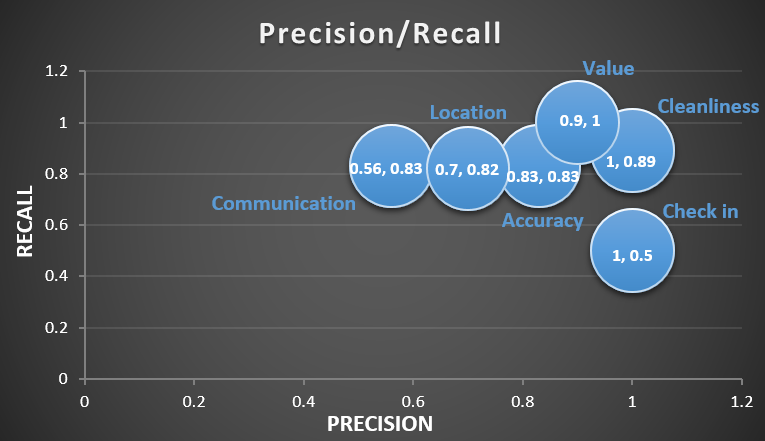
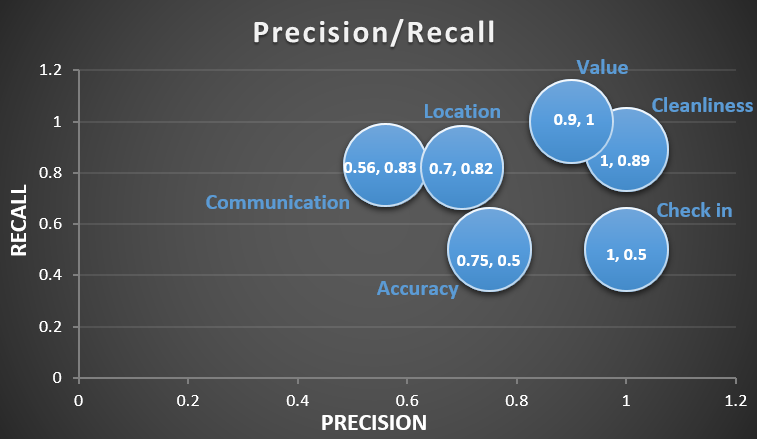
Update on Overleaf.

diff --git a/chapters/introduction/chap01.tex b/chapters/introduction/chap01.tex
@@ -6,37 +6,34 @@
 \let\textcircled=\pgftextcircled
 \chapter{Introduction}
 \label{chap:intro}
+%
+% General description of ICTs growth, etourism term and feedback systems
+%
+\initial{T}he exponential growth of Information and Communication Technologies (ICTs) has played a great role in the development of tourism industry. Electronic tourism (e-tourism) is the application of ICTs for tourism purposes, including the digitalization of all its processes and value chains \cite{buhalis2003etourism}. Increasingly, ICTs provide users with access to many sources of information and has eventually affected the consumer behavior in tourism industry \cite{mills2004handbook}. Nowadays there is a huge variety of web services which provide a great complexity and diversity of recommended offers for meeting the demands of travelers. However, the personalized consumption patterns and individualistic lifestyles make it incredibly difficult for the service providers to anticipate tourists' behavior \cite{niemann2008enhancing}. For decision makers to successfully understand the requirements, needs, desires and preferences of the customer, detailed information has to be obtained. Travelers, making use of the ICT tools that facilitate the information retrieval and decision making processes, have now direct access to all types of information provided by tourism agencies, companies, marketers, enterprises or other users. Furthermore, ICTs and Internet have transformed e-tourism markets from customer-centric to customer-driven \cite{buhalis2011tourism}, meaning that users play a major role in creating and sharing traveling information through blogs and review websites. Online feedback mechanisms, also known as reputation systems, \textit{have emerged as a viable mechanism for fostering cooperation among strangers in such settings} \cite{dellarocas2003digitization}. Examples of these systems, for instance TripAdvisor, Booking.com or AirBnb, after each trade encourage both parties to give feedback about their trading partner based on their own experience. 
+\section{Problem statement}
+%
+% How feedback is collected and analyzed 
+%
+The most common types of consumer generated feedback are ratings from 1-5 stars and general text comments. An important separation exists between the distinct role of text comments as tacit knowledge and ratings as explicit knowledge and the ways they are analyzed. For online marketplaces to succeed, their feedback technologies must be able to not only collect users feedback, but to properly analyze it and utilize for decision making purposes \cite{pavlou2006nature}. However, current online travel systems, aiming to assist the consumer in finding suitable offers, filter the information based on location-price factor and on the overall ratings accumulated from the feedback system, meaning that text reviews are revealed for the public to read but they do not directly affect the overall analysis. Focusing on solely numerical ratings and ignoring the importance of text feedback leads to two major issues for feedback systems. 
+%
+% The issues with current analysis
+% ---- BIAS -----
+%
 
-\initial{T}he exponential growth of Information and Communication Technologies (ICTs) has played a great role in the development of tourism industry. Electronic tourism (e-tourism) is the application of ICTs for tourism purposes, including the digitalization of all its processes and value chains \cite{buhalis2003etourism}. Increasingly, ICTs provide users with access to many sources of information and has eventually affected the consumer behavior in tourism industry \cite{mills2004handbook}. Nowadays there is a huge variety of web services which provide a great complexity and diversity of recommended offers for meeting the demands of travelers. However, the personalized consumption patterns and individualistic lifestyles make it incredibly difficult for the service providers to anticipate tourists' behavior \cite{niemann2008enhancing}. Among other factors that influence the consumer behavior, trust in e-tourism is a particular challenge considering the fact that trades are geographically dispread, executed sequentially and  typically anonymous \cite{owen2014trust}. To incentivize trustworthiness, online markets employ feedback mechanisms, which allow consumers to share opinions about past experiences. Online feedback mechanisms, also known as reputation systems, \textit{have emerged as a viable mechanism for fostering cooperation among strangers in such settings} \cite{dellarocas2003digitization}. Examples of these systems, for instance TripAdvisor, Booking.com or AirBnb, after each trade encourage both parties to give feedback about their trading partner based on their own experience. 
+First, many academic papers on online reputation systems and building trust in the online marketplace report the existence of bias on online reviews \cite{bolton2013engineering,dellarocas2008sound,dini2009buying,fradkin2016bias,ghose2011estimating,resnick2006value}, thus reducing the bias of these systems is an important issue towards a more efficient online feedback system. Utilizing only biased ratings does not necessarily mean that the top result is the most suitable option for a certain user considering the personal requirements. On the other hand, the analysis of ratings does not indicate much information for the service providers, who aim to acquire knowledge on how to improve their services. In order to gain detailed insights from the feedback system, some service providers including Airbnb, ask its users to rate not only the overall quality of the listing, but also six accommodation features. However, since the overall ratings are biased \cite{fradkin2016bias}, how do we make sure that the ratings for specific features are objective? From this point of view, the bias on quantitative data of the system raises the issue of reliability on the system itself.
+%
+% ---- HIDDEN FEATURES -----
+%
 
-Travelers, making use of the ICT tools that facilitate the information retrieval and decision making processes, have now direct access to all types of information provided by tourism agencies, companies, marketers, enterprises or other users. Thus, the new knowledgeable and sophisticated e-tourists  search for relevant and trustworthy information themselves instead of relying on other parties \cite{morrisonn2001predicting}. Furthermore, ICTs and Internet have transformed e-tourism markets from customer-centric to customer-driven \cite{buhalis2011tourism}, meaning that users play a major role in creating and sharing traveling information through blogs and review websites. Buhalis \cite{buhalis2011tourism} suggests that the tourism industry is now required to treat the consumers as "co-producers" of product information, considering that consumer generated content is more likely to be trusted compared to suppliers \cite{nielsen2009}. 
+Second, the incompleteness of the analysis based solely in quantitative data leads to the need for complementary analysis. Customers' needs are considered multi-dimensional and difficult to measure on discrete scales such as ratings \cite{luo2005information}, therefore a customer has to extract the needed information from different sources and types of information provided by agencies, companies or other users. According to \cite{pavlou2006nature}, text comments are particularly interesting for the audience as a new trust-building means in online marketplaces by revealing hidden knowledge, which is often underestimated from their owners and cannot be described by negative/positive ratings. Furthermore, \cite{fradkin2016bias} suggests that text opinions influence the decision making process even when the ratings are high. In the Airbnb feedback system a negative rating is followed by a text in 45\% of the cases, which implies the great power of text analysis for discovering deeper insights for the listing \cite{fradkin2016bias}. Acknowledging the importance of text comments, some feedback systems often offer summaries to all text comments, which mostly consist on a bunch of most used words. However, this bag of words does not necessarily cover the features that a certain user is interested in, neither the features that need to be improved. The users or service providers still have to read all the text comments related to the feature, meaning that it still does not reduce much of the  work. A survey by \cite{pavlou2006institutional} asked the respondents to indicate how many feedback comments they examined before each online transaction. The result showed that 81\% reported examining 25 comments (one webpage), 5\% viewed 50 comments, 11\% more than 50 ones, and only 3\% did not examine any text comments. These findings reveal that despite the importance of text feedback to the users, it is difficult for them to access the meaning of numerous text comments \cite{pavlou2006institutional}. Given this situation, the average human reader will have difficulties on identifying and extracting the relevant information from the opinions in them. Automated analysis systems are thus needed \cite{liu2012sentiment}.
 
-For online marketplaces to succeed and offer accurate information, their feedback technologies must be able to not only collect users feedback, but to properly analyze it and differentiate among sellers. The most common types of consumer generated feedback are ratings and text comments.  An important separation exists between the distinct role of text comments as tacit knowledge and ratings as explicit knowledge. According to \cite{pavlou2006nature}, text comments are particularly interesting for the audience as a new trust-building means in online marketplaces by revealing hidden knowledge that cannot be described by negative/positive ratings. In addition, consumers' needs are considered multi-dimensional and difficult to measure on discrete scales \cite{luo2005information}, therefore a traveler has to extract the needed information from different sources and types of information provided by agencies, companies or other users. This means that a big part of the work in the decision making process is totally up to the consumer. A survey by \cite{pavlou2006institutional} asked the respondents to indicate how many feedback comments they examined before each online transaction. The result showed that 81\% reported examining 25 comments (one webpage), 5\% viewed 50 comments, 11\% more than 50 ones, and only 3\% did not examine any text comments. These findings reveal that despite the importance of text feedback to the users, it is difficult for them to access the meaning of numerous text comments \cite{pavlou2006institutional}.  Given this situation, the average human reader will have difficulties on identifying and extracting the relevant information from the opinions in them.  
+\section{Research question}
+Natural language processing (NLP) enable computers to derive meaning from any human written input, including their opinions. The NLP methods for doing so fall into the category of sentiment mining methods, known also as \textit{opinion mining}. Examples of their application include mainly the movie rating systems (Netflix, IMDb) and the product rating systems (eBay). However, the importance of extracting sentiment of features from comments, besides their overall positive/negative sentiment is often ignored in the literature. This research proposes the implementation of feature-based opinion mining methods from complementing the analysis of customer feedback in e-tourism and accommodation market. The proposed approach uses an ontology based approach combined with sentiment mining techniques for generating opinion scores for each accommodation feature mentioned in the reviews of a feedback system. This solution deals with the two issues mentioned above, bias of ratings and the need for complementary text analysis for feature extraction. From its point of view, both issues can be brought together as one, since text analysis is believed to contribute to a better rating systems by reducing its bias \cite{fradkin2016bias}.
 
-Current online travel systems, aiming to assist the consumer in finding suitable offers, allow the user to rank and filter the information based on location-price factor or on the overall ratings accumulated from the feedback system. However, this does not necessarily mean that the top result is the most suitable for a certain user considering the personal requirements. For example, let us consider a person who has trouble sleeping and therefore  a \textit{quiet} place is a non-negotiable personal requirement. A room in the city center, with a very good price and high rating may not be suitable because it may be also \textit{noisy}. The customer in this case would have to check all the text comments of each listing in the search results in order to find the proper match. This task is not only time consuming but also inefficient, given that most of the users will not read all the reviews and may end up picking something random. 
+This paper answers firstly the question of \textit{how can opinion mining methods be aligned with the quantitative data analysis in order to enhance focus on customer feedback and produce detailed analysis results.} By estimating sentiment scores for the text reviews, the pipeline transforms the text data into discrete quantitative form, which can easily be analyzed for different purposes. Some of the implications of the analysis are treated in the next sections. In addition to this analysis, it is important to find out \textit{how good can feature-based opinion mining estimate the quality of accommodation features in e-tourism feedback systems,} which measures the reliability of the analysis. By answering these two questions, the purpose of the paper is to offer to service providers a new reliable approach on enhancing focus on customers, based on users' generated content.
 
-The service providers often offer summaries to all feedback comments, which mostly consist on a bunch of most used words. However, this bag of words does not necessarily cover the features that a certain user is interested in. In cases when the list contains the feature, it provides no other information except of the fact that it is mentioned somewhere in the comments. The user still has to read for each listing all the text comments related to the feature, meaning that it still does not reduce much of the travelers' work. Automated analysis systems are thus needed \cite{liu2012sentiment}. Natural language processing (NLP) enables computers to derive meaning from any human written input, including their opinions. The NLP methods for doing so fall into the category of sentiment mining methods, known also as \textit{opinion mining}. 
-
-This paper proposes a pipeline, which uses an ontology based approach combined with sentiment mining techniques for generating opinion scores for each accommodation feature mentioned in the reviews of a feedback system. The sentiment score serves in this case as a discrete estimator of the customer requirements, which are represented by accommodation features. This pipeline aims to offer to the users the possibility of ranking the accommodation search results based on their "difficult to measure" individualistic requirement, besides the price-location ranking factors. The research itself aims to give an answer to the following two questions. Firstly, \textit{how good can feature-based opinion mining estimate the quality of customer requirements represented by accommodation features in e-tourism feedback systems?} Secondly, \textit{how will the implementation of this pipeline in the search systems affect the customer satisfaction during the decision making process?} To provide an answer to these two questions this paper is organized as follows. The first part of the paper introduces the importance of gathering and analyzing customer information and requirements in e-tourism as treated by the Customer Focus theory. Then it provides a short introduction to the online feedback systems, as important tools for gathering customer information, including the characteristics of the most popular travel web services and the methods they use for analyzing customer reviews. The current state-of-the-art of feature-based opinion mining used for analyzing customer feedback is covered in the second part. Further, the proposed approach is discussed, consisting explanation of the pipeline step by step. The fourth chapter covers the methodology used for this research, which leads to the results presented in chapter five. Lastly the paper evaluates the proposed approach and ends up with the practical implications of this work, limitations and further work to be done. 
-
-\section{Customer Focus Theory}
-\label{sec:CFTH}
-
-When offering a service or product, it is essential to understand what consumers' preferences are and how can we shape the offerings accordingly to create value. Customer Focus Theory is one of Information Studies theories, which specifically offers a guide on how to put the focus on the customer. This theory should be explained according to the context of my research (where it is placed and adds value on the framework) as shown in Figure \ref{fig:CustomerFocus}. 
---- Narrow down to "Receiving and utilization of customer feedback" and the accordance with the research topic.
-
---- Check \cite{lohan2011examining} and change thesis focus to customer oriented!! 
-
-
-\label{sec:OFS}
-\begin{figure}[h!]
-	\centering
-	\includegraphics[height=0.3\textheight]{fig01/CustomerFocus}
-	\caption{Theoretical framework of Customer Focus theory}
-	\label{fig:CustomerFocus}
-\end{figure}
-
-\section{Online Feedback systems}
-%Methods for analyzing customer feedback
-
-This section will explain how online feedback systems work. It will describe, categorize and point out the differences between the typical types of OFS used by the most successful online marketers (TripAdvisor, Booking.com, Airbnb, couchsurfing etc). 
+\section{Research rationale and structure}
+%
+% The rationale is missing
+%
+To provide an answer to the research questions, this paper is organized in four(?) chapters. The first part of the paper introduces the importance of gathering and analyzing customer feedback in e-tourism. The current state-of-the-art of feature-based opinion mining used for analyzing customer feedback is covered in the second part. The literature review includes articles published in a time frame of the last ten years and it leads the reader to the approach proposed for filling the literature gaps. The proposed approach is discussed by explaining each step of the pipeline developed for this research. The fourth chapter covers the methodology used in the research, from collecting the data to the analysis of the output. In chapter five, the whole proposed approach is evaluated based on human logic. Afterwards the results are presented and discussed. Finally, the paper concludes with implications of the proposed approach, limitations and further work to be done. 

diff --git a/chapters/proposal/chap03.tex b/chapters/proposal/chap03.tex
@@ -9,29 +9,31 @@
 
 \label{chap:prop}
 
-\initial{F}or estimating a discrete score of opinion on every accommodation feature mentioned in the text feedback of a listing, this paper proposes an approach as shown in Figure \ref{fig:pipe}. The pipeline consists of four main steps: \textit{pre-processing, feature identification, sentiment detection}  and \textit{data analysis}. Initially, the whole corpus of text data is pre-processed as it will be described in the following section. Features and sentiment are then identified in text based in sentence level. The output of the three first stages is re-organized and analyzed to match different customer needs. 
-The whole pipeline is built using Python programming language and its related packages. The following sections will explain each step of the proposed approach in further details.
+\initial{F}or transforming the text feedback into quantitative data, which will serve as input for analysis purposes, this paper proposes an approach as shown in Figure \ref{fig:pipe}. The pipeline consists of four main steps: \textit{pre-processing, feature identification, sentiment detection}  and \textit{data analysis}. Initially, the whole input of the pipeline is the huge corpus of text reviews stored in Neo4J database. This big amount of data from social is considered to be very noisy, therefore it will be cleaned up as be described in the following section. Features and sentiment are then identified in text based in sentence level. The output of these three stages consists of the quantitative sentiment scores for sentences of reviews and the features identified in them. This output will then serve as the input data of the final stage of the pipeline: data analysis.  
+The whole pipeline is built using Python programming language and its related packages. All the data analysis and visualization are written in Jupyter notebook. The following sections will explain each step of the proposed approach in further details.
+%
+%
+%
 \section{Pre-processing}
-The algorithm deals with a huge set of reviews, which are retrieved from the feedback system of Airbnb and they serve as the input of the pipeline. The whole corpus of reviews consists of 3.4GB, including reviews of the listings from the Netherlands, which is filtered to be focused only in Amsterdam. The data set is stored in cloud, in the Neo4J graph database, where the nodes can represent a listing, a guest or host, review or response. (Appendix figure?)
-Python is connected to read the data from cloud, using Cypher querying language for Neo4J. The reviews in the set are read one by one and each of them is checked if it fulfills the language requirements. In my work, the whole concept of the pipeline is developed in English, as the most used language, therefore every time that the algorithm runs into a review not in English, it will ignore the review and continue with the next one. For the English reviews, the algorithm will split the text into sentences, 
+The pipeline reads the text data from cloud with the help of \textit{py2neo}, a toolkit for working with Neo4J from within Python applications, and it formulates the queries in Cypher, the querying language for Neo4J graph database. The reviews in the corpus are read one by one and each of them is checked if it fulfills the language requirements. In my work, the whole concept of the pipeline is developed in English, as the most used language in e-tourism websites and as the easiest language for text mining. Thus, every time that the algorithm runs into a review not in English, it will ignore the review and continue with the next one. For each English review detected, the algorithm will split the text into sentences, 
 \begin{figure}[h!]
 	\centering
 	\includegraphics[height=0.72\textheight]{Pipeline1}
 	\caption{The proposed approach}
 	\label{fig:pipe}
 \end{figure} 
-thus the sentiment detector would refer to each sentence within the review.
+with the intention of detecting the sentiment within each sentence of the review and extracting features within these sentences. 
 %
-After having created a nested-list consisting of reviews and their sentences, tokenization and lemmatizing are performed on in order to cut each sentence into words, which are candidates for representing an accommodation feature. For tokenization the pipeline uses the TweetTokenizer\footnote{http://www.nltk.org/api/nltk.tokenize.html} package, part of NLTK and Twitter-aware designed, in order to be able to identify emoticons and adapt to new domains. On the other hand lemmatization is achieved using WordNet library. The output of these two steps is a list of lemmas for each sentence. 
-
+Afterwards tokenization and lemmatizing are performed to each sentence of the review, in order to cut them into words, which are candidates for representing an accommodation feature. For tokenization the pipeline uses the \textit{TweetTokenizer}\footnote{http://www.nltk.org/api/nltk.tokenize.html} package, part of NLTK and Twitter-aware designed, in order to be able to identify emoticons and adapt to new domains. On the other hand lemmatization is performed using \textit{WordNet}\footnote{https://wordnet.princeton.edu/}, a large lexical database for English terms, in which nouns, verbs, adjectives and adverbs are grouped into sets of cognitive synonyms (synsets), each expressing a distinct concept \cite{miller1995wordnet}. The output of these two steps is a list of lemmas for each sentence, which will be used by the next step in the pipeline as explained in the following section.  
+%
 \section{Feature identification}
-
-As soon as each sentence in the corpus of reviews is represented as a list of lemmas, an ontology based approach is used to identify the accommodation features of each sentence. The ontology is chosen for feature identification as a way for detecting all the terms, concepts and relations linked to accommodation domain.Prior to identifying the features, the pipeline builds a list of synonyms, hyponyms and hypernyms for every term of the ontology. The list is based on the Synsets and relations between concepts as introduced by WordNet library. The lists of related terms is lemmatized and the duplicates are removed. The lemmatization process aims to create a list of related lemmas for each feature in the ontology, which would then be used for feature identification in the sentences.
-Thus, the feature identification steps is a string match of the list of lemmas for every single sentence, with the list of related lemmas of every feature in the ontology. Considering that the ontology consists of many terms, this sample pipeline is trained with 6 features, namely \textit{accuracy, cleanliness, check-in, communication, location} and \textit{value}. These features are chosen based on the features that Airbnb asks the users to manually rate as part of their feedback.
+As soon as each sentence in the corpus of reviews is represented as a list of lemmas, an ontology based approach is used to identify the accommodation features of each sentence. The ontology is chosen for feature identification as a way for detecting all the terms, concepts and relations linked to accommodation domain. Prior to identifying the features, the pipeline builds a list of synonyms, hyponyms and hypernyms for every term of the ontology. The list is based on the Synsets and relations between concepts as introduced by WordNet library. The lists of related terms is lemmatized, as explained above, and the duplicates are removed. The lemmatization process aims to create a list of related lemmas for each feature in the ontology, which would then be used for feature identification in the sentences.
+Thus, the feature identification steps is a string match of the list of lemmas for every single sentence, with the list of related lemmas of every feature in the ontology. Considering that the ontology consists of many terms, this sample pipeline is trained to identify only six features that Airbnb asks the customers to manually rate as part of their feedback, namely \textit{accuracy, cleanliness, check-in, communication, location} and \textit{value}. 
+When a word in the sentence is identified to be a feature, the algorithm jumps to the next word of the sentence. Within one sentence more than one feature can be identified, as well as features can be mentioned more than once. Therefore, for every possible feature match, a match counter variable which keeps track of the features is assigned to the sentence. Here, the pipeline considers each sentence as independent and it ignores the logical connection between two sentences of the same review.
 
 \section{Sentiment detection}
-After pre-processing and feature identification, a very important part of the pipeline is sentiment detection. The algorithm used for this purpose is VADER \footnote{https://pypi.python.org/pypi/vaderSentiment}, part of Python packages. VADER is a lexicon and rule-based sentiment analysis tool that is specifically attuned to sentiments expressed in social media. Based on the comparisons of 22 sentiment mining tools on specific contexts, VADER is ranked as the best algorithm for comments and the second best for social networks \cite{ribeiro2015benchmark}.
-VADER is able to deal with negation, capital letters, emoticons, punctuation types, \textit{but} sentences and slangs. The pipeline asks uses VADER to return a sentiment score for every sentence of the review, which would afterwards be a score for the identified features in that sentence. Considering that in one sentence, more than 1 feature can be identified, a probabilistic model is used for defining the probabilities that a sentiment score would reflect user's opinion for the features identified within one sentence. For a better understanding, let's have a look at the whole model of data, including the probabilistic sentiment scores.
+A very important part of the pipeline is sentiment detection. The algorithm used for this purpose is VADER \footnote{https://pypi.python.org/pypi/vaderSentiment}, part of Python packages. VADER is a lexicon and rule-based sentiment analysis tool that is specifically attuned to sentiments expressed in social media. Based on the comparisons of 22 sentiment mining tools on specific contexts, VADER is ranked as the best algorithm for comments and the second best for social networks \cite{ribeiro2015benchmark}.
+VADER is able to deal with negation, capital letters, emoticons, punctuation types, mixed sentiment sentences (\textit{but, however}and slangs. The pipeline asks uses VADER to return a sentiment score for every sentence of the review, which would afterwards serve as a discrete score for the identified features in that sentence. Considering that in one sentence, more than 1 feature can be identified or the same feature can be identified more than once as mentioned above, a probabilistic model is developed. This model serves for defining the probabilities that a sentiment score would reflect user's opinion on each explicit feature identified within one sentence. For a better understanding, let's have a look at the whole model of data, including the probabilistic sentiment scores.
 
 The whole data corpus consists of 11 053 listings. Each listing in this corpus can be represented by the ID of the listing in the database L\textsubscript{lis\_id}. Every listing from this set has a number of reviews, which varies from one listing to the other and is identified from ID of the review \textit{R\textsubscript{lis\_id} = \{ R\textsubscript{0}, R\textsubscript{1},  R\textsubscript{2} ... R\textsubscript{r} \}}. For a single review of a certain listing would be \textit{R\textsubscript{lis\_id, rev\_id}}. This review is composed by a number of sentences \textit{S\textsubscript{lis\_id, rev\_id} = \{S\textsubscript{0}, S\textsubscript{1}, S\textsubscript{2} ... S\textsubscript{s}\}}. 
 The pipeline is trained to detect the sentiment of all the sentences, which will be in the same form as the one above. 
@@ -41,13 +43,15 @@ In each of these sentences, the pipeline is trained to identify six accommodatio
 $$Sentiment = \sum_{i=1}^{n}p\textsubscript{i} *  sentiment\textsubscript{ i} \hspace{1cm} (1)$$ 
 %---------------------------------------------
 %
-This formula for calculating the sentiment of the features is part of the sentiment detection phase of the pipeline and it is repeated for every single sentence. For instance, considering the reviews of listing 24328,  \textit{R\textsubscript{24328, 10146}} would represent the review: "We had a great stay at Joe's. The handy guide to the house and neighborhood was much appreciated, as were Joe's clear instructions for checking in while he was away. The house was comfortable and eclectic, full of personal character." Thus, \textit{S\textsubscript{24328, 10146, 1}} represents the second sentence of the text above. In this sentence can be identified three features \textit{check-in, communication,} and \textit{location}. The compound sentiment score of the sentence above has in this way to refer to one of these features in a probability of 33.3\%. Figure \ref{fig:sent} shows the results of the pipeline for this case. The output of the whole sentiment detection phase is a Comma Separated Vector (.csv) file, consisting of all listings, all listings' reviews, its respective sentences and the sentiment for the identified features on these sentences. 
+This formula for calculating the sentiment of the features is part of the sentiment detection phase of the pipeline and it is repeated for every single sentence. For instance, considering the reviews of listing 24328,  \textit{R\textsubscript{24328, 10146}} would represent the review: "We had a great stay at Joe's. The handy guide to the house and neighborhood was much appreciated, as were Joe's clear instructions for checking in while he was away. The house was comfortable and eclectic, full of personal character."
 \begin{figure}[h!]
 	\centering
 	\includegraphics[height=0.1\textheight]{example_pip}
 	\caption{Example of the probabilistic sentiment results}
 	\label{fig:sent}
 \end{figure}
+Thus, \textit{S\textsubscript{24328, 10146, 1}} represents the second sentence of the text above. In this sentence can be identified three features \textit{check-in, communication,} and \textit{location}. The compound sentiment score of the sentence above has in this way to refer to one of these features in a probability of 33.3\%. Figure \ref{fig:sent} shows the results of the pipeline for this case. The output of the whole sentiment detection phase is a Comma Separated Vector (.csv) file, consisting of all listings, all listings' reviews, its respective sentences and the sentiment for the identified features on these sentences. 
+
 %
 
 \section{Data analysis}

diff --git a/chapters/evaluation_results/chap05.tex b/chapters/evaluation_results/chap05.tex
@@ -29,7 +29,7 @@ The effectiveness of the proposed technique for feature identification is measur
 $$ Precision  (p) =\frac{TP}{TP+FP}\hspace{1cm}(2)$$
 $$ Recall  (r) = \frac{TP}{TP + FN}\hspace{1.6cm}(3) $$
 $$ Accuracy (a) = \frac{TP + TN}{TP+TN+FP+FN} \hspace{1cm}(4)$$
-where TP (true positives) is the number of sentences that the algorithm correctly identifies the right features; FP (false positives) is the number of sentences that the algorithm falsely extract wrong features; FN (false negatives) is the number of sentences that the algorithm fails to identify the right features and TN (true negative) is the number of sentences that the algorithm correctly does not identify any feature. The average human logic identifies a feature in a sentence when it is agreed by the majority of respondents. Ideally the algorithm shall have values of precision and recall close to 1 for each of the features. This evaluation of the pipeline as illustrated in Figure \ref{fig:matrix} shows that the algorithm manages to identify some features better than others. For example the \textit{value} and \textit{cleanliness} features of the listing are identified almost always with high precision and recall, but a low precision for \textit{communication} means that the algorithm retrieves many FP. The opposite happens for \textit{check in} when the precision is very high but many sentences fail to be identified. For the six features overall the algorithm reaches the accuracy and precision 80\% and recall 83\%. Future work needs to be done in improving this step of the pipeline.
+where TP (true positives) is the number of sentences that the algorithm correctly identifies the right features; FP (false positives) is the number of sentences that the algorithm falsely extract wrong features; FN (false negatives) is the number of sentences that the algorithm fails to identify the right features and TN (true negative) is the number of sentences that the algorithm correctly does not identify any feature. The average human logic identifies a feature in a sentence when it is agreed by the majority of respondents. Ideally the algorithm shall have values of precision and recall close to 1 for each of the features. This evaluation of the pipeline as illustrated in Figure \ref{fig:matrix} shows that the algorithm manages to identify some features better than others. For example the \textit{value} and \textit{cleanliness} features of the listing are identified almost always with high precision and recall, but a low precision for \textit{communication} means that the algorithm retrieves many FP. The opposite happens for \textit{check in} when the precision is very high but many sentences fail to be identified. For the six features overall the algorithm reaches the accuracy and precision 77.8\% and recall 79.2\%. Future work needs to be done in improving this step of the pipeline.
 \begin{figure}[h!]
 	\centering
 	\includegraphics{precision_recall_1}

diff --git a/chapters/methodology/chap04.tex b/chapters/methodology/chap04.tex
@@ -14,5 +14,7 @@ In knowledge management and Semantic Web research areas, ontologies are consider
 Besides these ontologies,  further covers features mentioned in the Web based accommodation services of AirBnb.com, Booking.com and TripAdvisor.com.
 
 
-\section{Data}
+\section{Dataset}
 This subsection will describe the characteristics of data that will be used for research. In details how each property of the data scraped will be used, name of databases and so on.
+
+The algorithm deals with a huge set of reviews, which are retrieved from the feedback system of Airbnb and they serve as the input of the pipeline. The whole corpus of reviews consists of 3.4GB, including reviews of the listings from the Netherlands, which is filtered to be focused only in Amsterdam. The data set is stored in cloud, in the Neo4J graph database, where the nodes can represent a listing, a guest or host, review or response. (Appendix figure?)
